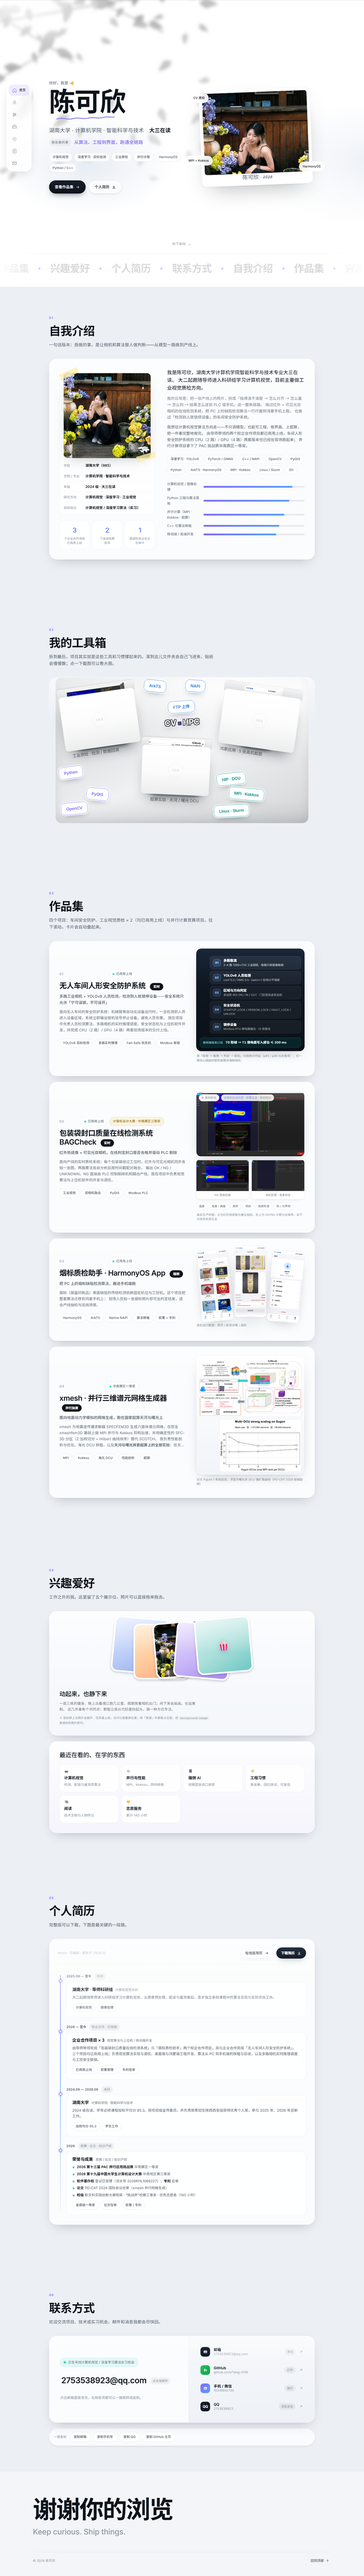
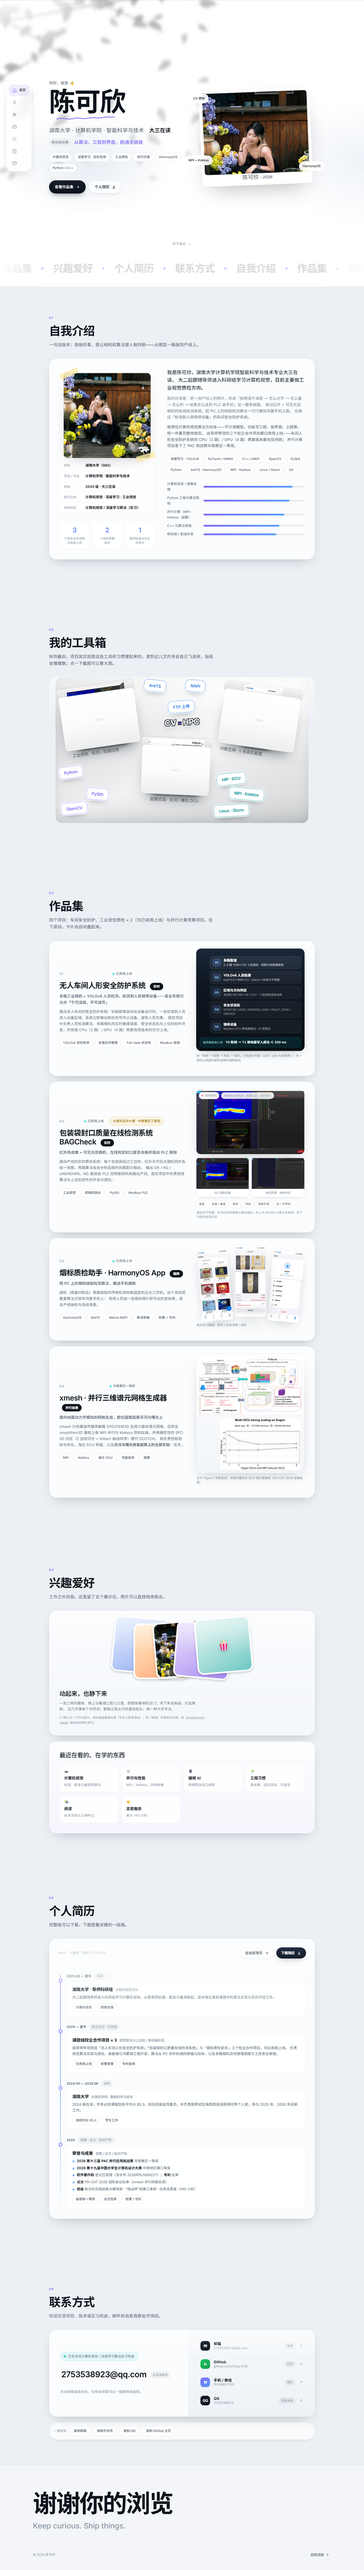
Mobile polish: touch hover, dock fit on small screens, gallery scale, tap targets

diff --git a/assets/css/style.css b/assets/css/style.css
@@ -1071,6 +1071,52 @@ html.lb-open{overflow:hidden}
   }
 }
 
+/* ---------- 10.1 移动端细节修正 ---------- */
+/* 触屏设备：关掉「悬停让位」这类只有鼠标才成立的交互，避免点完 hover 状态粘住 */
+@media (hover:none){
+  .gallery:hover .gphoto:not(:hover){--spread:0px}
+  .ui-main:hover,.ui-thumb:hover{transform:none;box-shadow:var(--shadow-sm)}
+  .media--thermal .thermal:hover img,
+  .media--scan .scan:hover img,
+  .media--figures figure:hover img{transform:none}
+  .media--phones img:nth-child(1):hover{transform:rotate(-5deg) translateY(8px) scale(1)}
+  .media--phones img:nth-child(2):hover{transform:translateY(-8px) scale(1)}
+  .media--phones img:nth-child(3):hover{transform:rotate(5deg) translateY(12px) scale(1)}
+  .project:hover .media--figures .fig-side{transform:none}
+}
+
+/* 触屏上手指比鼠标粗：底部导航与复制按钮留够点按面积 */
+@media (max-width:640px){
+  .copy-btn{padding:11px 17px;font-size:13px}
+  .link-row{padding-block:16px}
+  .chip,.tag{font-size:12px}
+}
+
+/* 安全链路的验收条：窄屏改成上下两行，避免「≤ 200 ms」被拆到两行 */
+@media (max-width:480px){
+  .media--flow .flow__bar{flex-direction:column;align-items:flex-start;gap:3px}
+  .media--flow .flow__bar-v{font-size:12px;white-space:nowrap}
+  .media--flow .flow__hint{font-size:10.5px}
+}
+
+/* 小屏手机（320–380px）：底部胶囊导航整排缩一号，避免左右被裁掉 */
+@media (max-width:380px){
+  .dock{padding:6px;gap:2px;max-width:calc(100vw - 12px)}
+  .dock__item{height:42px;padding:0 8px}
+  .dock__item svg{width:19px;height:19px}
+  .dock__item.is-active{padding-right:8px}
+  .dock__label,.dock__item.is-active .dock__label{display:none}
+  .section{padding-block:64px}
+}
+
+/* 兴趣爱好那摞照片：小屏按比例缩得更小，保证最外侧两张不被切掉 */
+@media (max-width:420px){
+  .gallery{height:126px;transform:scale(.5)}
+}
+@media (max-width:344px){
+  .gallery{height:110px;transform:scale(.44)}
+}
+
 /* ---------- 无障碍：尊重减弱动效偏好 ---------- */
 @media (prefers-reduced-motion:reduce){
   html{scroll-behavior:auto}

diff --git a/index.html b/index.html
@@ -542,7 +542,7 @@
           一周三练的健身、晚上沿着湘江跑几公里、假期背着相机出门；闲下来会画画，也追美剧。
           这几件事有个共同点：都能让我从代码里抬起头，换一种方式专注。
         </p>
-        <p class="interest__hint">※ 鼠标移上去照片会展开、压到最上层，也可以拖着换位置；除「旅游」外都是占位图，把 <code>background-image</code> 换成你的照片即可。</p>
+        <p class="interest__hint">※ 照片点一下可以放大，按住能拖着换位置（手机上就是滑动）；除「旅游」外都是占位图，把 <code>background-image</code> 换成你的照片即可。</p>
       </div>
     </div>
 
